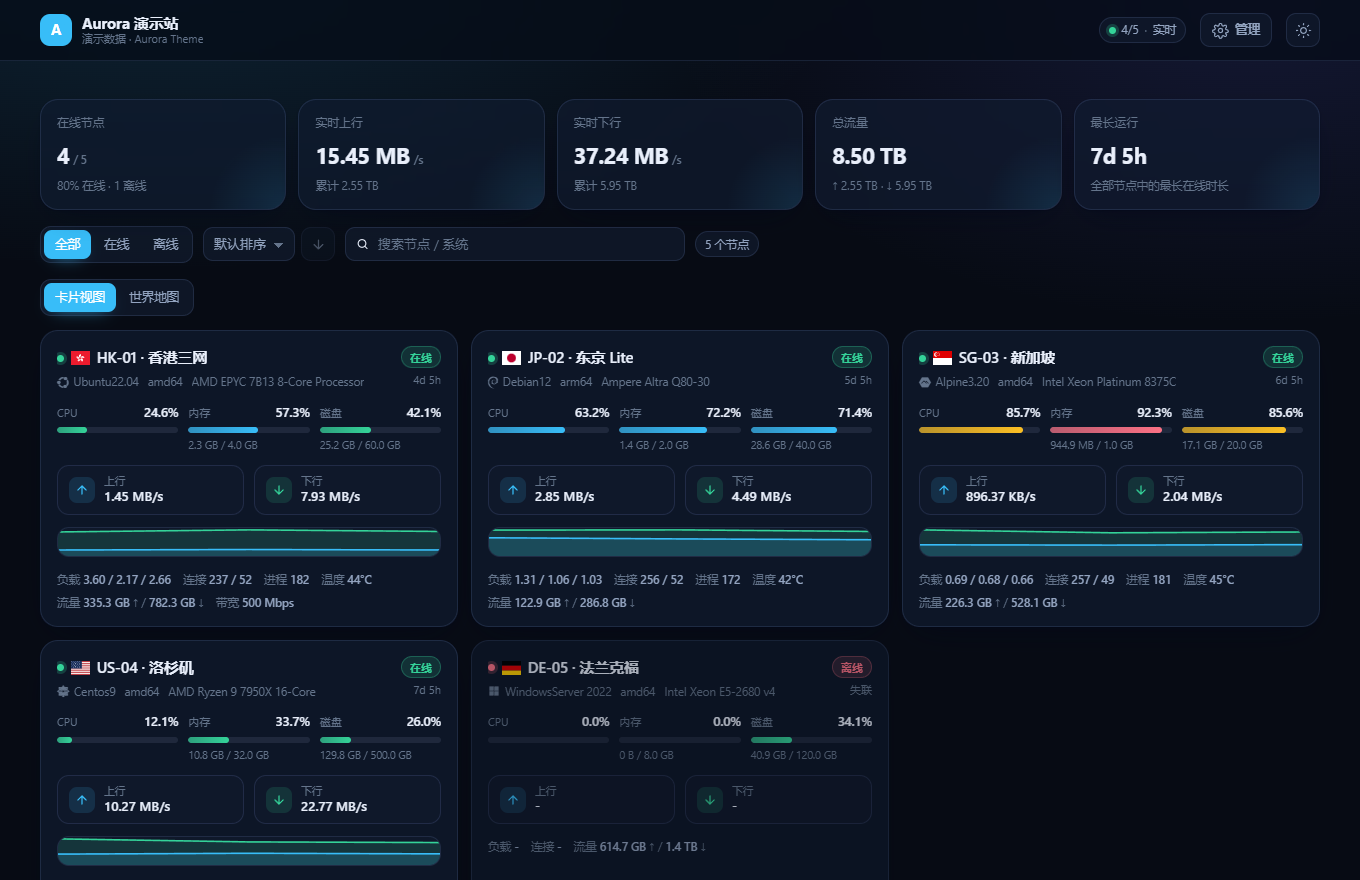
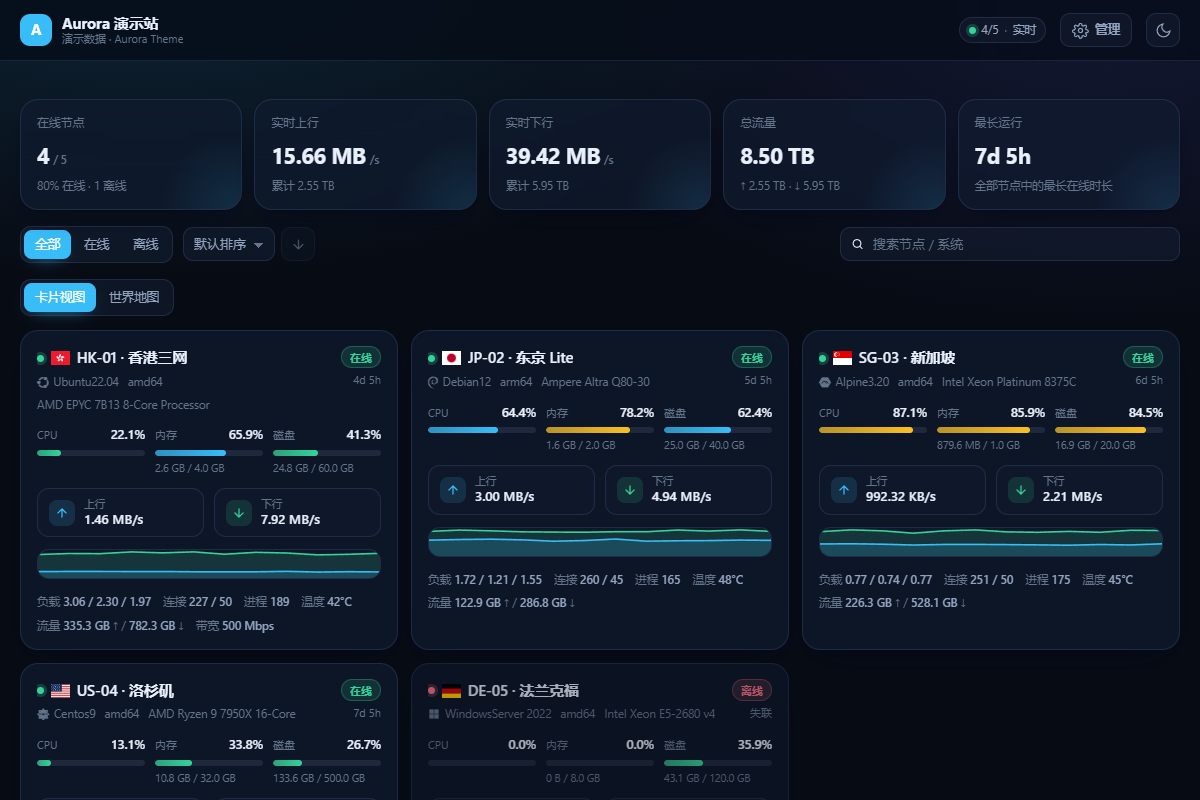
style: 移除筛选栏的节点计数标签，搜索框改为靠右对齐

diff --git a/src/components/FilterBar.vue b/src/components/FilterBar.vue
@@ -1,5 +1,5 @@
 <script setup lang="ts">
-import { state, visibleServers } from "@/store/nezha";
+import { state } from "@/store/nezha";
 import type { SortKey, StatusFilter } from "@/store/nezha";
 
 const statusOptions: { key: StatusFilter; label: string }[] = [
@@ -74,8 +74,6 @@ function setStatus(status: StatusFilter) {
       </svg>
       <input v-model="state.filter.keyword" type="search" placeholder="搜索节点 / 系统" />
     </label>
-
-    <span class="chip num node-count">{{ visibleServers.length }} 个节点</span>
   </section>
 </template>
 
@@ -92,6 +90,8 @@ function setStatus(status: StatusFilter) {
   flex: 1 1 190px;
   width: auto;
   max-width: 340px;
+  /* 节点数标签移除后，让搜索框贴右侧，避免中间留下大片空白 */
+  margin-left: auto;
 }
 
 .sort-group {
@@ -111,9 +111,6 @@ function setStatus(status: StatusFilter) {
     order: 3;
     flex: 1 1 100%;
     max-width: none;
-  }
-  .node-count {
-    display: none;
   }
 }
 </style>
